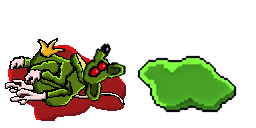
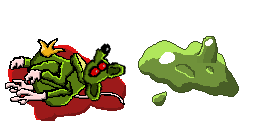
ADD New graphics for giant slime

Changed region(s): [[0.5312, 0.2812, 0.9375, 0.875]]

diff --git a/src/GiantSlimeEntity.cpp b/src/GiantSlimeEntity.cpp
@@ -128,7 +128,7 @@ void GiantSlimeEntity::animate(float delay)
       case 2: new SlimeEntity(OFFSET_X + TILE_WIDTH * (MAP_WIDTH - 2) + TILE_WIDTH * 0.5f, OFFSET_Y + TILE_HEIGHT * (MAP_HEIGHT - 2) + TILE_HEIGHT * 0.5f, true); break;
       case 3: new SlimeEntity(OFFSET_X + TILE_WIDTH * 1.5f, OFFSET_Y + TILE_HEIGHT * (MAP_HEIGHT - 2) + TILE_HEIGHT * 0.5f, true); break;
     }
-    slimeTimer = 6.0f;
+    slimeTimer = 7.0f;
     slimeCounter ++;
     if (slimeCounter == 4) slimeCounter = 0;
   }
@@ -359,17 +359,26 @@ void GiantSlimeEntity::dying()
   if (y <= OFFSET_Y + 1.5 * TILE_HEIGHT) y = OFFSET_Y + 1.5 * TILE_HEIGHT + 2;
   else if (y >= OFFSET_Y + TILE_HEIGHT * MAP_HEIGHT - 1.5f * TILE_HEIGHT) x = OFFSET_Y + TILE_HEIGHT * MAP_HEIGHT - 1.5f * TILE_HEIGHT -3;
 
-  for (int i = 0; i < 10; i++)
+  for (int i = 0; i < 9; i++)
   {
     game().generateBlood(xSlime, ySlime, bloodColor);
     new SlimeEntity(x, y, true);
   }
 
-  //SoundManager::getSoundManager()->playSound(SOUND_KING_RAT_DIE);
+  SoundManager::getSoundManager()->playSound(SOUND_SLIME_SMASH);
 
   ItemEntity* newItem = new ItemEntity(itemBossHeart, x, y);
   newItem->setVelocity(Vector2D(100.0f + rand()% 250));
   newItem->setViscosity(0.96f);
+
+  SpriteEntity* star = new SpriteEntity(ImageManager::getImageManager()->getImage(IMAGE_GIANT_SLIME), x, y, 128, 128, 8);
+  star->setFrame(4);
+  star->setFading(true);
+  star->setZ(y+ 100);
+  star->setAge(-0.4f);
+  star->setLifetime(0.3f);
+  star->setType(16);
+  star->setSpin(400.0f);
 }
 
 void GiantSlimeEntity::render(sf::RenderTarget* app)

diff --git a/src/WitchBlastGame.cpp b/src/WitchBlastGame.cpp
@@ -100,6 +100,7 @@ WitchBlastGame::WitchBlastGame(): Game(SCREEN_WIDTH, SCREEN_HEIGHT)
   SoundManager::getSoundManager()->addSound((char*)"media/sound/slime_jump.ogg");
   SoundManager::getSoundManager()->addSound((char*)"media/sound/slime_impact.ogg");
   SoundManager::getSoundManager()->addSound((char*)"media/sound/slime_impact_weak.ogg");
+  SoundManager::getSoundManager()->addSound((char*)"media/sound/slime_smash.ogg");
   SoundManager::getSoundManager()->addSound((char*)"media/sound/ice_charge.ogg");
   SoundManager::getSoundManager()->addSound((char*)"media/sound/select.ogg");
   SoundManager::getSoundManager()->addSound((char*)"media/sound/heart.ogg");

diff --git a/src/Constants.h b/src/Constants.h
@@ -117,6 +117,7 @@ enum sound_resources {
   SOUND_SLIME_JUMP,
   SOUND_SLIME_IMAPCT,
   SOUND_SLIME_IMAPCT_WEAK,
+  SOUND_SLIME_SMASH,
   SOUND_ICE_CHARGE,
   SOUND_SHOT_SELECT,
   SOUND_HEART
